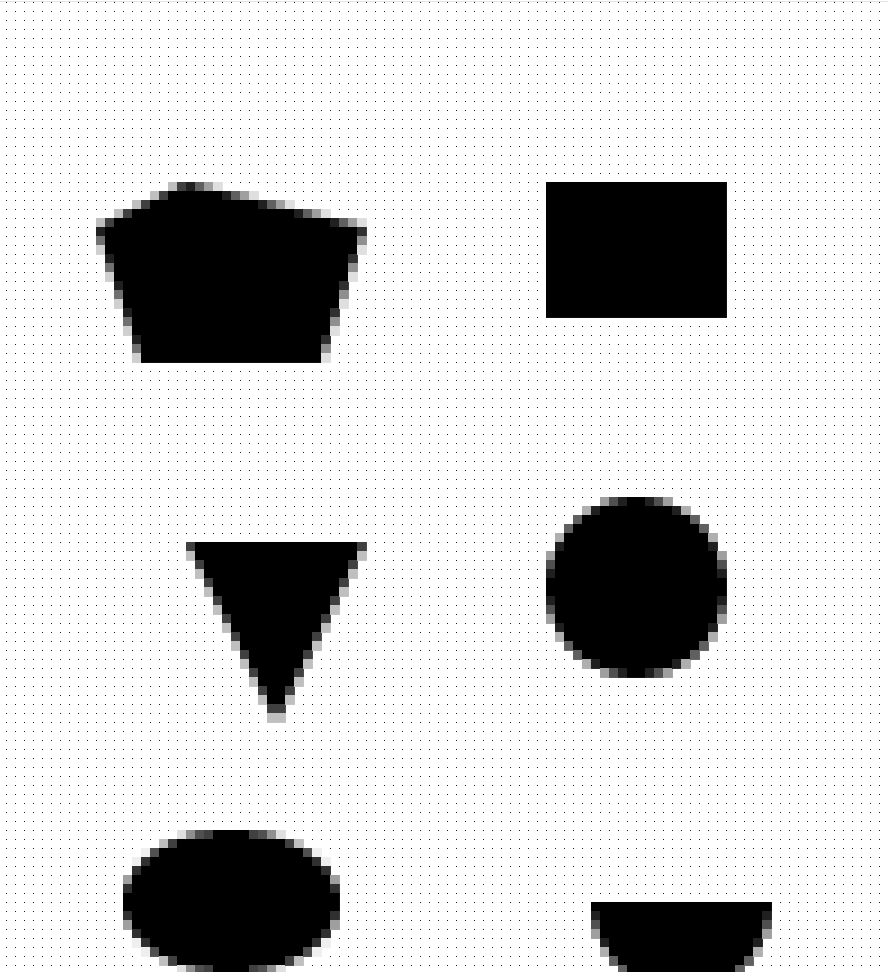
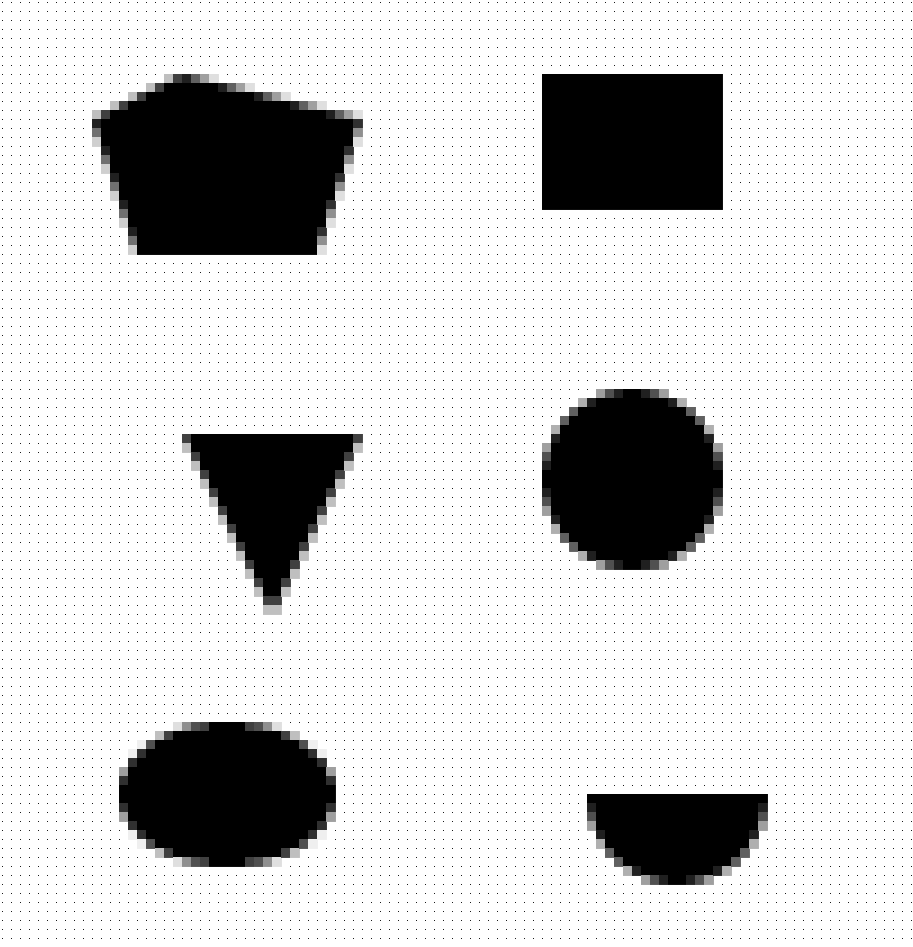
edited examples

diff --git a/src/examples/example_normal.js b/src/examples/example_normal.js
@@ -1,20 +1,19 @@
 const canvas = new Canvas(1080, 1080, 10, "canvas");
 
-
 drawPolygon([
-    [20, 20],
-    [40, 25],
-    [35, 40],
-    [15, 40],
-    [10, 25]
+    [20, 10],
+    [40, 15],
+    [35, 30],
+    [15, 30],
+    [10, 15]
 ], BLACK);
 
-drawRectangle(60, 20, 20, 15, BLACK);
+drawRectangle(60, 10, 20, 15, BLACK);
 
-drawTriangle(20, 60, 40, 60, 30, 80, BLACK);
+drawTriangle(20, 50, 40, 50, 30, 70, BLACK);
 
-drawCircle(70, 65, 10, BLACK);
+drawCircle(70, 55, 10, BLACK);
 
-drawEllipse(25, 100, 12, 8, BLACK);
+drawEllipse(25, 90, 12, 8, BLACK);
 
-drawArc(75, 100, 10, 10, 0, Math.PI, BLACK);
+drawArc(75, 90, 10, 10, 0, Math.PI, BLACK);
